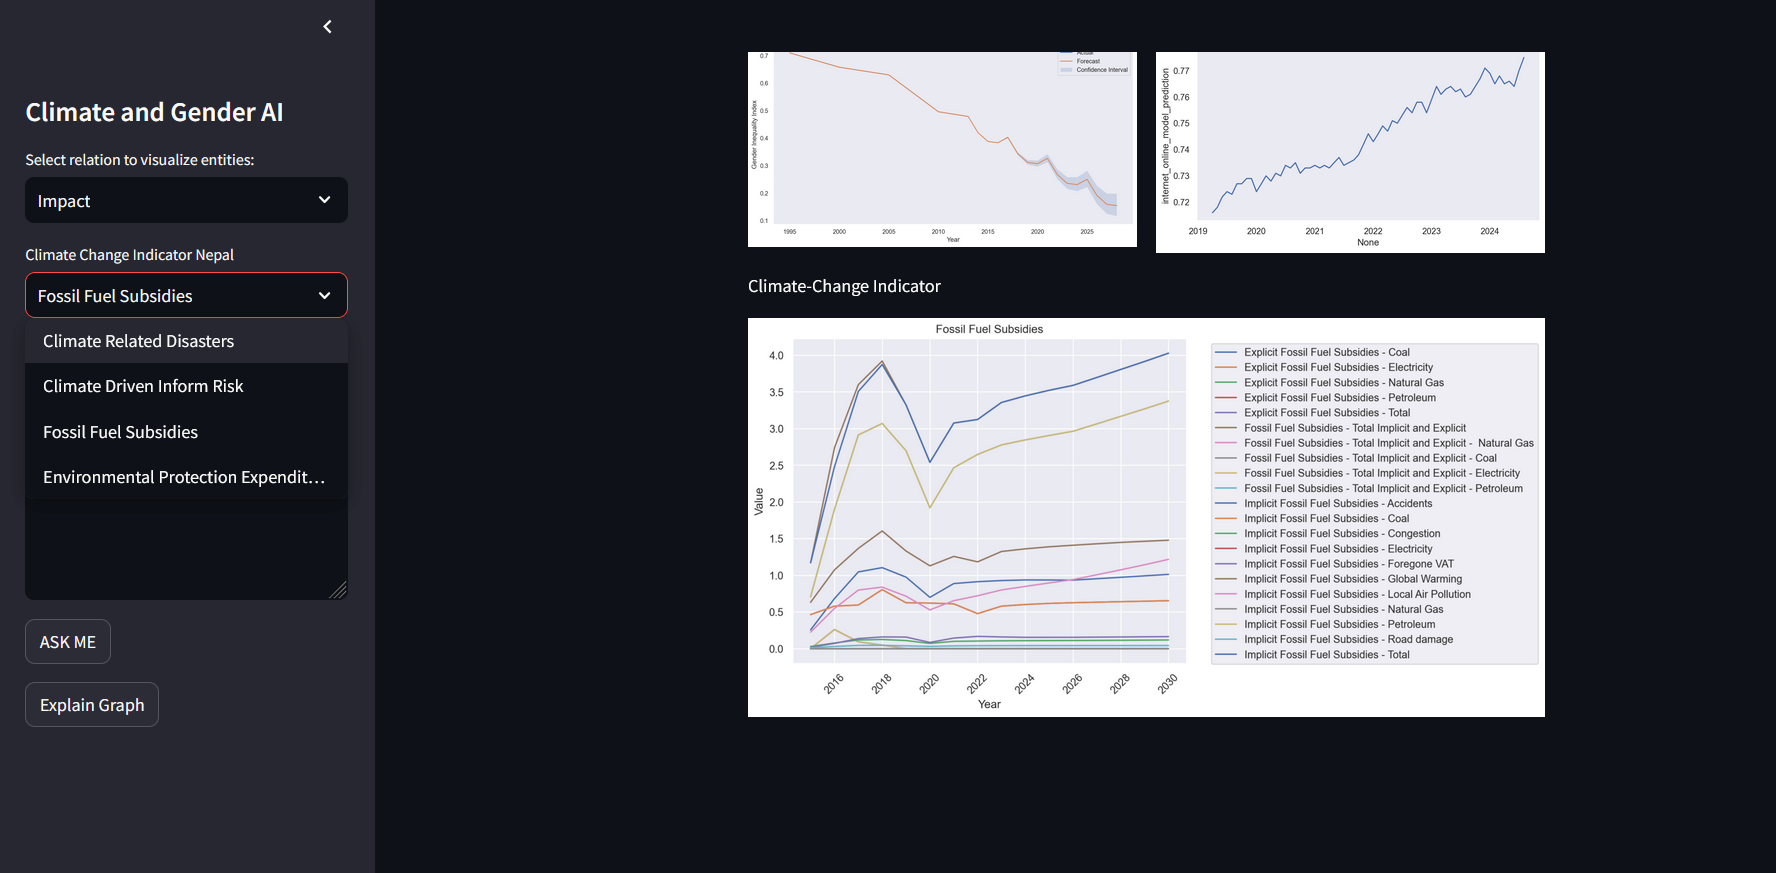
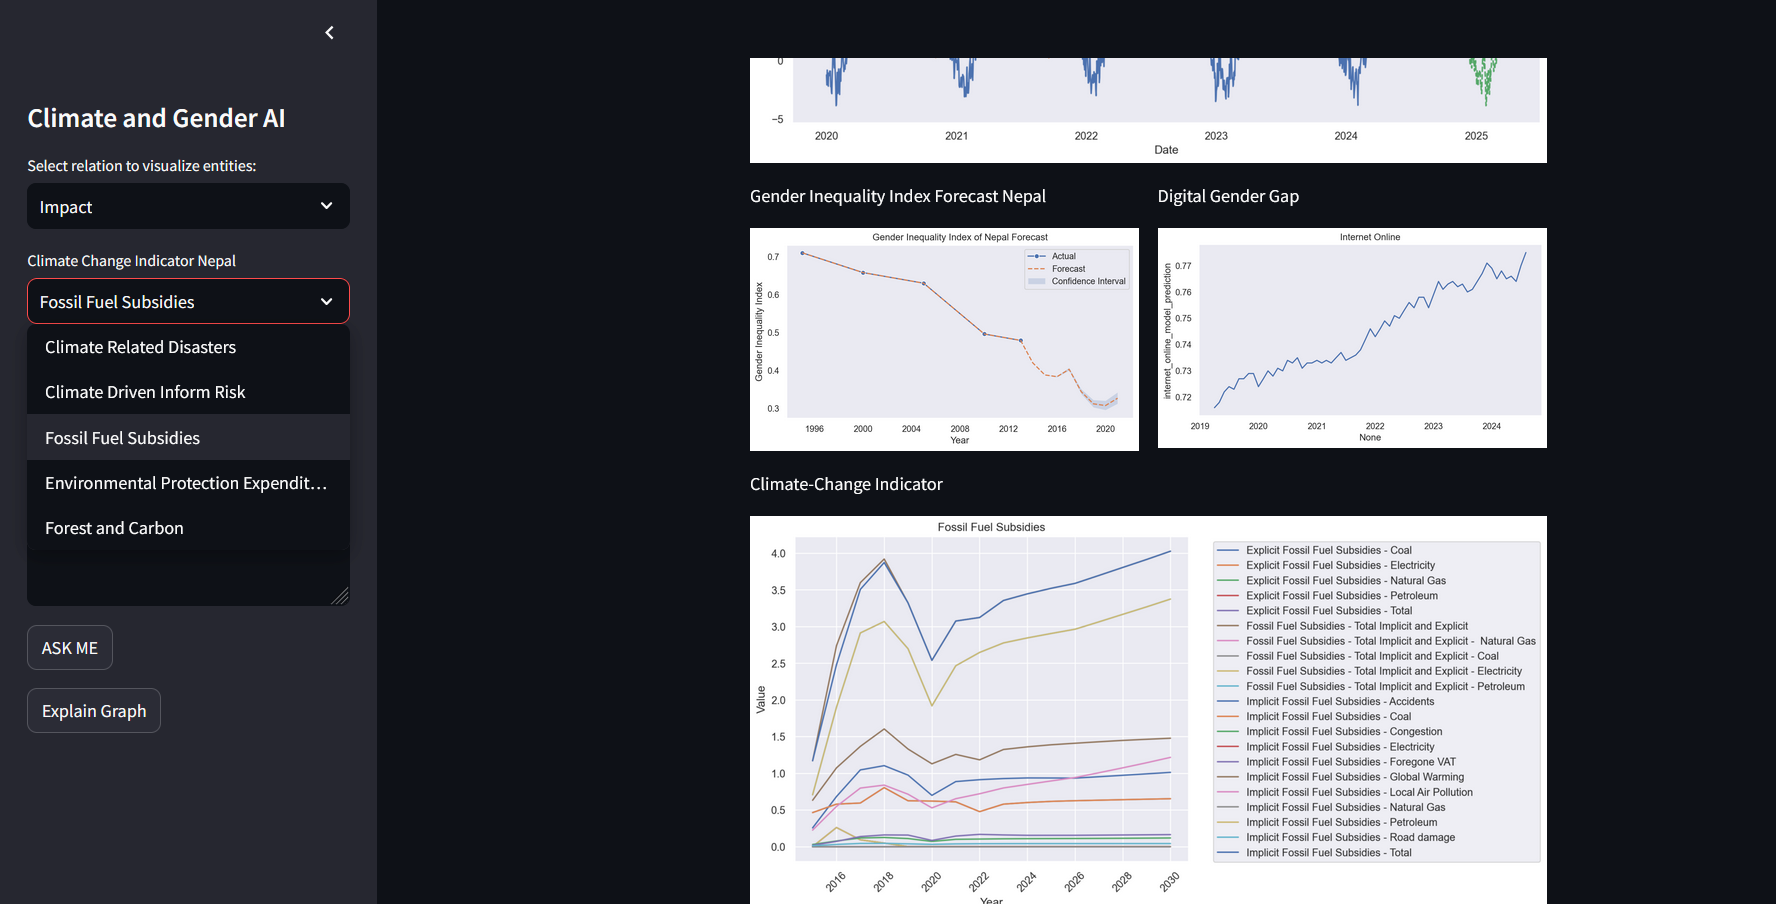
*graph fixed GII

diff --git a/app.py b/app.py
@@ -63,7 +63,8 @@ def load_climate_change_indicator():
     climate_driven_inform_risk_df = pd.read_csv('datasets/CSV/Nepal_NP_All_Indicators/15_Climate-driven_INFORM_Risk.csv')
     fossil_fuel_subsidies_df = pd.read_csv('datasets/CSV/Nepal_NP_All_Indicators/09_Fossil_Fuel_Subsidies.csv')
     environmental_protection_expenditures_df = pd.read_csv('datasets/CSV/Nepal_NP_All_Indicators/08_Environmental_Protection_Expenditures.csv')
-    return climate_related_disaster_df, climate_driven_inform_risk_df, fossil_fuel_subsidies_df, environmental_protection_expenditures_df
+    forest_and_carbon_df = pd.read_csv('datasets/CSV/Nepal_NP_All_Indicators/13_Forest_and_Carbon.csv')
+    return climate_related_disaster_df, climate_driven_inform_risk_df, fossil_fuel_subsidies_df, environmental_protection_expenditures_df, forest_and_carbon_df
 
 def get_climate_data(nasa_url):
 
@@ -86,7 +87,6 @@ def get_climate_data(nasa_url):
         return climate_change_df
 
 def forecast_temperature_and_precipitation(df):
-    
     df['Date'] = pd.to_datetime(df['Date'])
     df.set_index('Date', inplace=True)
 
@@ -105,14 +105,12 @@ def forecast_temperature_and_precipitation(df):
     X, y_temp = create_features(df, label='Temperature')
     _, y_precip = create_features(df, label='Precipitation')
 
-    # Load the saved models
     model_temp = xgb.XGBRegressor()
     model_temp.load_model('models/model_temp.json')
 
     model_precip = xgb.XGBRegressor()
     model_precip.load_model('models/model_precip.json')
 
-    # Forecast for the next 6 months
     future_dates = pd.date_range(start=df.index[-1], periods=180, freq='D')
     future_df = pd.DataFrame(index=future_dates)
     future_X = create_features(future_df)
@@ -120,7 +118,6 @@ def forecast_temperature_and_precipitation(df):
     future_temp = model_temp.predict(future_X)
     future_precip = model_precip.predict(future_X)
 
-    # Create a DataFrame for the forecast
     forecast_df = pd.DataFrame({
         'Date': future_dates,
         'Forecasted_Temperature': future_temp,
@@ -128,26 +125,16 @@ def forecast_temperature_and_precipitation(df):
     })
     forecast_df.set_index('Date', inplace=True)
 
-    # Set the Seaborn theme
     sns.set_theme(style="dark")
-
-    # Plot the forecast
     fig, ax = plt.subplots(figsize=(14, 7))
-
-    # Plot the actual data
     sns.lineplot(data=df, x=df.index, y='Temperature', label='Actual Temperature', ax=ax)
     sns.lineplot(data=df, x=df.index, y='Precipitation', label='Actual Precipitation', ax=ax)
-
-    # Plot the forecasted data
     sns.lineplot(data=forecast_df, x=forecast_df.index, y='Forecasted_Temperature', label='Forecasted Temperature', linestyle='--', ax=ax)
     sns.lineplot(data=forecast_df, x=forecast_df.index, y='Forecasted_Precipitation', label='Forecasted Precipitation', linestyle='--', ax=ax)
-
     ax.set_xlabel('Date')
     ax.set_ylabel('Values')
     ax.set_title('Temperature and Precipitation Forecast for 6 Months')
-    ax.legend()
-    ax.grid(True)
-
+    ax.legend(loc='upper left')  # Set legend location to top left corner
     st.pyplot(fig)
 
 
@@ -181,16 +168,21 @@ def forecast_gii(nepal_data):
         'ds': pd.to_datetime(nepal_data.index, format='%Y'),  
         'y': nepal_data.values  
     })
-    gii_model.fit(nepal_data_prophet)
-    future = gii_model.make_future_dataframe(periods=15, freq="AS")  
-    future['ds'] = pd.to_datetime(future['ds'].dt.year, format='%Y') 
-    forecast = gii_model.predict(future)
-    plt.figure(figsize=(12, 6))
-    plt.plot(nepal_data.index, nepal_data.values, label="Actual")  
-    plt.plot(forecast["ds"].dt.year, forecast["yhat"], label="Forecast")  
+
+    # Create and fit the model
+    model = Prophet()
+    model.fit(nepal_data_prophet)
+
+    future = model.make_future_dataframe(periods=8, freq="AS")  
+    forecast = model.predict(future)
+
+    # Plot 
+    plt.figure(figsize=(8, 4))
+    sns.lineplot(x=nepal_data_prophet['ds'], y=nepal_data_prophet['y'], label="Actual", marker='o')
+    sns.lineplot(x=forecast["ds"], y=forecast["yhat"], label="Forecast", linestyle='--')
     plt.fill_between(
-        forecast["ds"].dt.year, forecast["yhat_lower"], forecast["yhat_upper"], alpha=0.2, label="Confidence Interval"
-    )  
+        forecast["ds"], forecast["yhat_lower"], forecast["yhat_upper"], alpha=0.2, label="Confidence Interval"
+    )
     plt.xlabel("Year")
     plt.ylabel("Gender Inequality Index")
     plt.title("Gender Inequality Index of Nepal Forecast")
@@ -343,12 +335,13 @@ def question(user_input):
 ##################################################################################################################################
 
 nepal_data_grouped = load_and_prepare_gii(gii_url)
-(climate_related_disaster_df, climate_driven_inform_risk_df, fossil_fuel_subsidies_df, environmental_protection_expenditures_df) = load_climate_change_indicator()
+(climate_related_disaster_df, climate_driven_inform_risk_df, fossil_fuel_subsidies_df, environmental_protection_expenditures_df, forest_and_carbon_df) = load_climate_change_indicator()
 cci_df_dataframes = {
     'Climate Related Disasters': climate_related_disaster_df,
     'Climate Driven Inform Risk': climate_driven_inform_risk_df,
     'Fossil Fuel Subsidies': fossil_fuel_subsidies_df,
-    'Environmental Protection Expenditures': environmental_protection_expenditures_df
+    'Environmental Protection Expenditures': environmental_protection_expenditures_df,
+    'Forest and Carbon': forest_and_carbon_df
 }
 
 # Set the sidebar title
